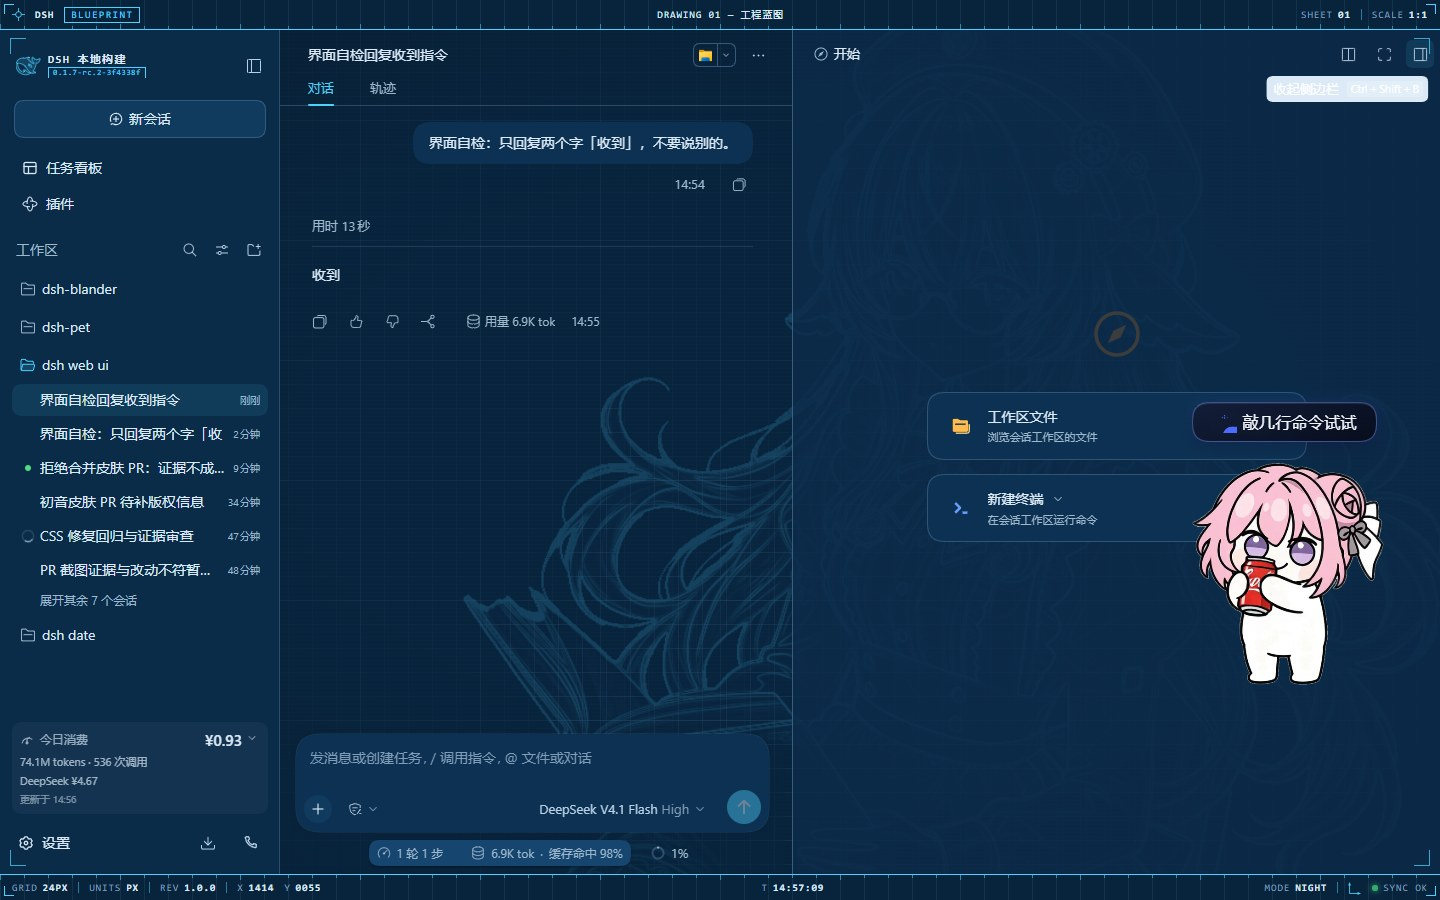
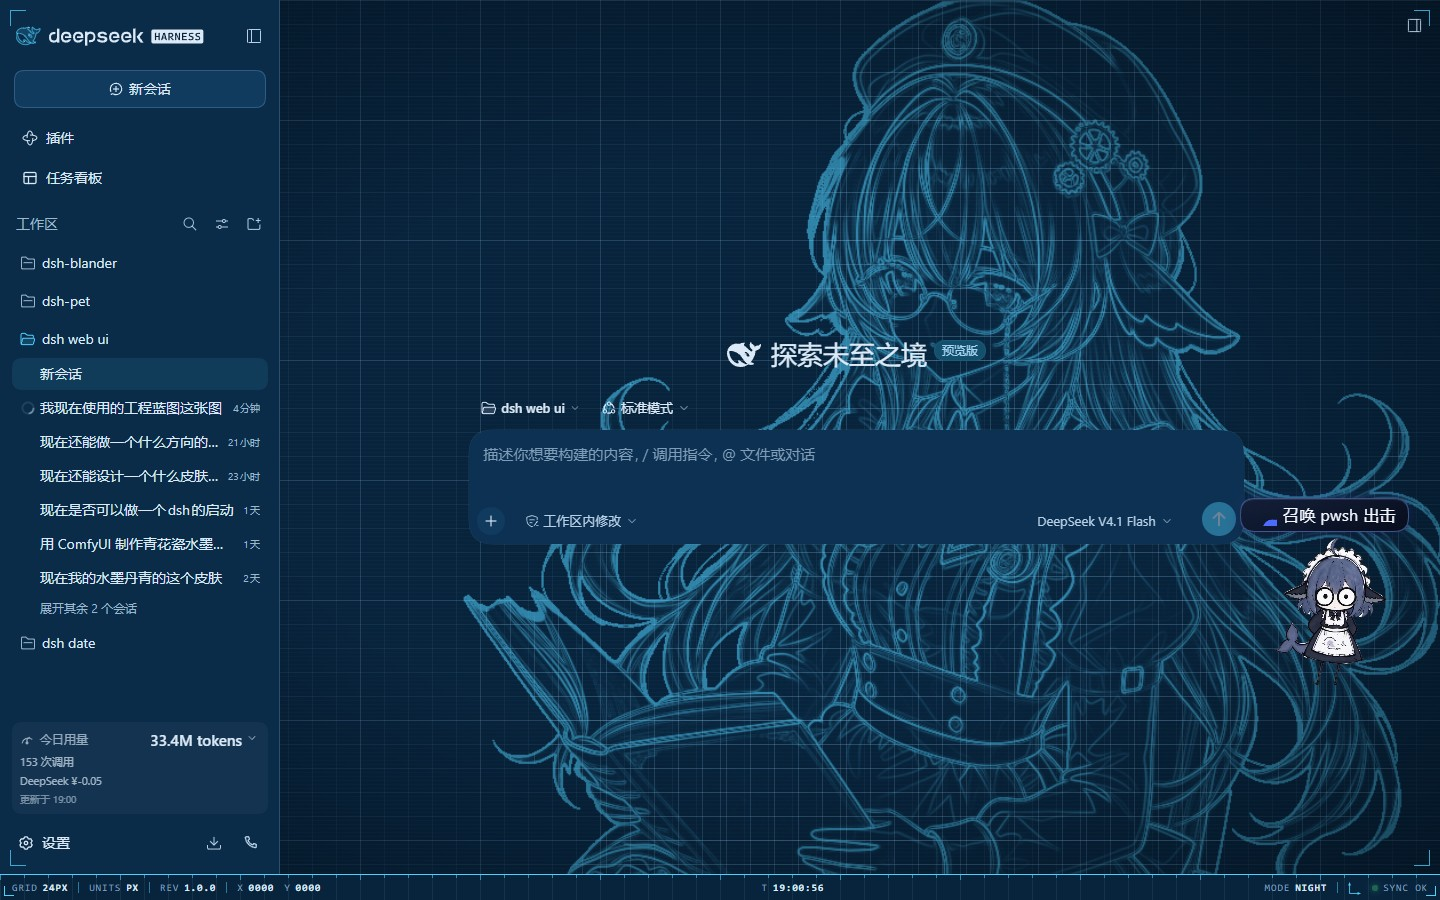
fix(skins): 移除 blueprint 的 HUD 顶栏并让开 Windows 原生标题栏
顶栏（.dsh-bp-titlebar）是 hooks.mjs 注入的 position:fixed、top:0 横条。在打包版
Windows 应用里它整条 30px 落在窗口顶部的原生标题栏带内（--dsh-windows-titlebar-height
为 40px，带内是「应用/编辑」菜单与窗口按钮），读数被压住；它占用的 30px 也没有归还给
应用内容。

- 移除顶栏与顶栏专属内部件（mark / id / badge / title，以及 ruler 的 bottom 变体），
  并删掉只服务于顶栏的 --dsh-bp-bar-top：画框顶到 y=0，高度改为 100vh 减去底栏。
- 底栏保留全部实时读数（时钟、X/Y 坐标、MODE、SYNC）与标尺，位置不变。
- 角定位标记与侧栏开关簇改为跟随 --dsh-bp-caption-top 让位。该变量由宿主仅在 Windows
  上写入（inline 自定义属性），其他主机缺失并以 0px 回退，所以非 Windows 行为不变；
  这样也避开了加载器把选择器强制作用域到 html[data-dsh-skin] 之后，以 html 开头的
  选择器无法匹配的问题。
- hooks.mjs 的字节变了，随之重新生成 src/reviewed-hooks.generated.ts 并重建 lib。
- 刷新 evidence/ 三张截图（明/暗 1440x900 与窄屏 390x844），均在开机幕布撤下后截取。

diff --git a/skins/blueprint/patches.css b/skins/blueprint/patches.css
@@ -2,26 +2,41 @@
  * Blueprint — L3 texture + HUD skin.
  *
  * Everything here is decorative and non-interactive: the drafting grid, corner
- * registration marks, pane hairlines, and the styling of the two HUD bars that
+ * registration marks, pane hairlines, and the styling of the status bar that
  * hooks.mjs injects into <body>.
  *
  * The loader scopes every selector under html[data-dsh-skin="blueprint"].
  */
 
-/* --- reserve chrome space for the fixed HUD bars ------------------------- */
+/* --- reserve chrome space for the fixed status bar ----------------------- */
 
 body {
-  --dsh-bp-bar-top: 30px;
   --dsh-bp-bar-bottom: 26px;
+
+  /**
+   * Height of the native caption strip the packaged Windows app reserves at the
+   * top of the window (app menu on the left, window buttons on the right).
+   * `apps/desktop/src/preload-windows.ts` stamps `data-windows-titlebar` on
+   * <html> and writes `--dsh-windows-titlebar-height` (40px) as an inline custom
+   * property there; on every other host the property does not exist, so the
+   * 0px fallback makes this branch-free. That matters because the skin loader
+   * scopes every selector under `html[data-dsh-skin="..."]`, and a selector
+   * starting with `html` cannot match after scoping — so the host difference has
+   * to travel through a custom property instead of through a selector.
+   *
+   * The corner registration marks anchor to the viewport top, so they are the
+   * one thing that has to clear the strip.
+   */
+  --dsh-bp-caption-top: var(--dsh-windows-titlebar-height, 0px);
+
   /* Backdrop line colour: archival sepia ink on warm paper, the blueprint
      cyan on the night sheet. Kept separate from the brand accent so the
      decorative line work can harmonise with the theme without repainting
      every interactive surface. */
   --dsh-bp-art-line: #6b5340;
 
-  /* Chrome palette. Declared on body so the bars, the ruler ticks and the
-     title block all read from one source. Light sheet: sepia throughout.
-     Night sheet: cyan on navy. */
+  /* Chrome palette. Declared on body so the bar and its ruler ticks read from
+     one source. Light sheet: sepia throughout. Night sheet: cyan on navy. */
   --bp-line: #7a6242;
   --bp-fg: #6b6154;
   --bp-fg-strong: #2b2723;
@@ -41,7 +56,6 @@ body[data-ds-dark-theme] {
 }
 
 [id="root"] {
-  padding-top: var(--dsh-bp-bar-top);
   padding-bottom: var(--dsh-bp-bar-bottom);
   background: none;
 }
@@ -54,7 +68,7 @@ body[data-ds-dark-theme] {
  * instead, so the frame lands flush between them.
  */
 [data-dsh-frame] {
-  height: calc(100vh - var(--dsh-bp-bar-top) - var(--dsh-bp-bar-bottom)) !important;
+  height: calc(100vh - var(--dsh-bp-bar-bottom)) !important;
 }
 
 /* --- sidebar brand mark (redrawn by hooks.mjs) --------------------------- */
@@ -212,13 +226,14 @@ body[data-ds-dark-theme] [data-dsh-panel="true"]:not([data-dsh-bottom-panel]) {
 
 /**
  * The sidebar-cards plugin parks its two toggle buttons in an absolutely
- * positioned cluster at `top: 14px`, inside a host whose z-index (25) sits
- * below the HUD bar (40) — so the bar covered their upper half. The plugin
- * exposes a stable `data-dsh-toggle-cluster` attribute, so nudge the cluster
- * below the bar instead of touching its hashed class.
+ * positioned cluster at `top: 14px`. On the packaged Windows app that lands
+ * inside the native caption strip, which paints over all web content, so nudge
+ * the cluster clear of it. The plugin exposes a stable `data-dsh-toggle-cluster`
+ * attribute, so this never touches its hashed class. The inset is 0px off
+ * Windows, so nothing moves there.
  */
 [data-dsh-toggle-cluster] {
-  top: calc(var(--dsh-bp-bar-top) + 14px) !important;
+  top: calc(var(--dsh-bp-caption-top) + 14px) !important;
 }
 
 /* --- drafting grid ------------------------------------------------------- */
@@ -267,8 +282,8 @@ body::after {
   background-repeat: no-repeat;
   background-size: 16px 1px, 1px 16px, 16px 1px, 1px 16px, 16px 1px, 1px 16px, 16px 1px, 1px 16px;
   background-position:
-    left 10px top 38px, left 10px top 38px,
-    right 10px top 38px, right 10px top 38px,
+    left 10px top calc(var(--dsh-bp-caption-top) + 10px), left 10px top calc(var(--dsh-bp-caption-top) + 10px),
+    right 10px top calc(var(--dsh-bp-caption-top) + 10px), right 10px top calc(var(--dsh-bp-caption-top) + 10px),
     left 10px bottom 34px, left 10px bottom 34px,
     right 10px bottom 34px, right 10px bottom 34px;
 }
@@ -291,9 +306,8 @@ body[data-ds-dark-theme] [data-pane="sidebar"] {
   box-shadow: inset -1px 0 0 #9fd8ff24;
 }
 
-/* --- HUD bars (injected by hooks.mjs) ------------------------------------ */
+/* --- status bar (injected by hooks.mjs) ---------------------------------- */
 
-.dsh-bp-titlebar,
 .dsh-bp-statusbar {
   position: fixed;
   left: 0;
@@ -318,7 +332,6 @@ body[data-ds-dark-theme] [data-pane="sidebar"] {
     repeating-linear-gradient(to right, var(--bp-grid) 0 1px, transparent 1px 24px);
 }
 
-body[data-ds-dark-theme] .dsh-bp-titlebar,
 body[data-ds-dark-theme] .dsh-bp-statusbar {
   --bp-line: #4fd1ff;
   --bp-fg: #7f9db8;
@@ -328,21 +341,13 @@ body[data-ds-dark-theme] .dsh-bp-statusbar {
   --bp-grid: #9fd8ff14;
 }
 
-.dsh-bp-titlebar {
-  top: 0;
-  height: var(--dsh-bp-bar-top);
-  border-bottom: 1px solid var(--bp-line);
-}
-
 .dsh-bp-statusbar {
   bottom: 0;
   height: var(--dsh-bp-bar-bottom);
   border-top: 1px solid var(--bp-line);
 }
 
-/* corner ticks on each bar */
-.dsh-bp-titlebar::before,
-.dsh-bp-titlebar::after,
+/* corner ticks on the bar */
 .dsh-bp-statusbar::before,
 .dsh-bp-statusbar::after {
   content: '';
@@ -354,43 +359,10 @@ body[data-ds-dark-theme] .dsh-bp-statusbar {
   border-width: 0;
 }
 
-.dsh-bp-titlebar::before { left: 4px; top: 4px; border-left-width: 1px; border-top-width: 1px; }
-.dsh-bp-titlebar::after { right: 4px; top: 4px; border-right-width: 1px; border-top-width: 1px; }
 .dsh-bp-statusbar::before { left: 4px; bottom: 4px; border-left-width: 1px; border-bottom-width: 1px; }
 .dsh-bp-statusbar::after { right: 4px; bottom: 4px; border-right-width: 1px; border-bottom-width: 1px; }
 
 /* --- HUD internals ------------------------------------------------------- */
-
-.dsh-bp-mark {
-  flex: none;
-  width: 13px;
-  height: 13px;
-  color: var(--bp-fg-accent);
-}
-
-.dsh-bp-id {
-  flex: none;
-  font-weight: 700;
-  color: var(--bp-fg-strong);
-}
-
-.dsh-bp-badge {
-  flex: none;
-  padding: 2px 6px;
-  border: 1px solid var(--bp-fg-accent);
-  color: var(--bp-fg-accent);
-  letter-spacing: 0.14em;
-}
-
-.dsh-bp-title {
-  flex: 1 1 auto;
-  min-width: 0;
-  overflow: hidden;
-  white-space: nowrap;
-  text-overflow: ellipsis;
-  text-align: center;
-  color: var(--bp-fg-strong);
-}
 
 .dsh-bp-spacer {
   flex: 1 1 auto;
@@ -438,10 +410,10 @@ body[data-ds-dark-theme] .dsh-bp-dot {
   50% { opacity: 0.35; }
 }
 
-/* --- measuring ticks along the bars (added by hooks.mjs) ----------------- */
+/* --- measuring ticks along the bar (added by hooks.mjs) ------------------ */
 
 /**
- * A scale strip pinned to the inner edge of each bar: a short tick every 24px
+ * A scale strip pinned to the inner edge of the bar: a short tick every 24px
  * (the drafting grid pitch) and a taller one every 120px, so the chrome reads
  * as a ruler against the sheet rather than a plain panel.
  */
@@ -449,6 +421,7 @@ body[data-ds-dark-theme] .dsh-bp-dot {
   position: absolute;
   left: 0;
   right: 0;
+  top: 0;
   height: 5px;
   pointer-events: none;
   opacity: 0.55;
@@ -457,15 +430,6 @@ body[data-ds-dark-theme] .dsh-bp-dot {
     repeating-linear-gradient(to right, var(--bp-line) 0 1px, transparent 1px 120px);
   background-repeat: no-repeat;
   background-size: 100% 3px, 100% 5px;
-  background-position: left bottom, left bottom;
-}
-
-.dsh-bp-titlebar .dsh-bp-ruler {
-  bottom: 0;
-}
-
-.dsh-bp-statusbar .dsh-bp-ruler {
-  top: 0;
   background-position: left top, left top;
 }
 
@@ -508,7 +472,7 @@ body[data-ds-dark-theme] .dsh-bp-grain {
 
 
 /* ══ 设备适配 ══════════════════════════════════════════════════════════════
-   家具是 viewport 级的图纸网格（body::before）、角落定位角标记（body::after）与 hooks.mjs 注入的两条 HUD 横条。
+   家具是 viewport 级的图纸网格（body::before）、角落定位角标记（body::after）与 hooks.mjs 注入的状态栏。
 
    目标壳：桌面浏览器 / exe 桌面端（WebView2）/ macOS 桌面（WKWebView）/
    手机·平板（iOS Safari、Android Chrome）。
@@ -523,10 +487,10 @@ body[data-ds-dark-theme] .dsh-bp-grain {
 
 /* 只换单位，别加 min-height：上面那条 height 带 !important，dvh 版要同样带 !important
    才盖得住；而 min-height 在这里没有竞争者，会把画框重新撑满视口，压掉让它让位的
-   两条 HUD 横条（pixel-anime 的注释记的就是这个坑）。 */
+   那条状态栏（pixel-anime 的注释记的就是这个坑）。 */
 @supports (height: 100dvh) {
   [data-dsh-frame] {
-    height: calc(100dvh - var(--dsh-bp-bar-top) - var(--dsh-bp-bar-bottom)) !important;
+    height: calc(100dvh - var(--dsh-bp-bar-bottom)) !important;
   }
 }
 
@@ -548,21 +512,20 @@ body[data-ds-dark-theme] .dsh-bp-grain {
       repeating-linear-gradient(to bottom, #9fd8ff1f 0 1px, transparent 1px 160px);
   }
 
-  /* HUD 横条是 10px 等宽字压在一次会话正文之上；手机上再降 1px，并让出安全区。 */
-  .dsh-bp-titlebar,
+  /* 状态栏是 10px 等宽字压在一次会话正文之上；手机上再降 1px，并让出安全区。 */
   .dsh-bp-statusbar {
     font-size: 9px;
     padding-left: max(12px, env(safe-area-inset-left));
     padding-right: max(12px, env(safe-area-inset-right));
   }
 
-  /* 角落定位角标记原本离边 10 / 38 / 34px，刘海与 home 指示条会盖掉它。 */
+  /* 角落定位角标记原本离边 10 / 10 / 34px，刘海与 home 指示条会盖掉它。 */
   body::after {
     background-position:
-      left max(10px, env(safe-area-inset-left)) top max(38px, env(safe-area-inset-top)),
-      left max(10px, env(safe-area-inset-left)) top max(38px, env(safe-area-inset-top)),
-      right max(10px, env(safe-area-inset-right)) top max(38px, env(safe-area-inset-top)),
-      right max(10px, env(safe-area-inset-right)) top max(38px, env(safe-area-inset-top)),
+      left max(10px, env(safe-area-inset-left)) top calc(var(--dsh-bp-caption-top) + max(10px, env(safe-area-inset-top))),
+      left max(10px, env(safe-area-inset-left)) top calc(var(--dsh-bp-caption-top) + max(10px, env(safe-area-inset-top))),
+      right max(10px, env(safe-area-inset-right)) top calc(var(--dsh-bp-caption-top) + max(10px, env(safe-area-inset-top))),
+      right max(10px, env(safe-area-inset-right)) top calc(var(--dsh-bp-caption-top) + max(10px, env(safe-area-inset-top))),
       left max(10px, env(safe-area-inset-left)) bottom max(34px, env(safe-area-inset-bottom)),
       left max(10px, env(safe-area-inset-left)) bottom max(34px, env(safe-area-inset-bottom)),
       right max(10px, env(safe-area-inset-right)) bottom max(34px, env(safe-area-inset-bottom)),

diff --git a/src/reviewed-hooks.generated.ts b/src/reviewed-hooks.generated.ts
@@ -22,7 +22,7 @@ export const REVIEWED_SKIN_HOOKS: Readonly<Record<string, ReviewedSkinHooksIdent
   "blueprint": {
     entry: "hooks.mjs",
[3 lines of base64/hex data omitted]
   },
   "cyber-night": {
     entry: "hooks.mjs",

diff --git a/lib/index.js b/lib/index.js
@@ -114,7 +114,7 @@ const REVIEWED_SKIN_HOOKS = {
 	"blueprint": {
 		entry: "hooks.mjs",
[3 lines of base64/hex data omitted]
 	},
 	"cyber-night": {
 		entry: "hooks.mjs",
